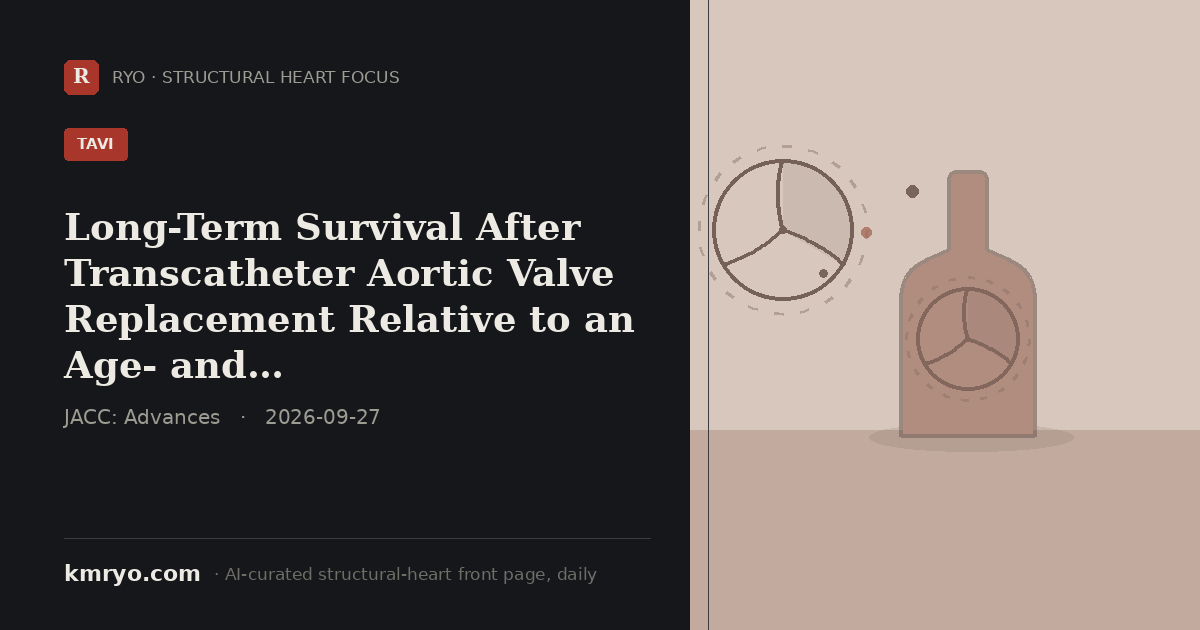
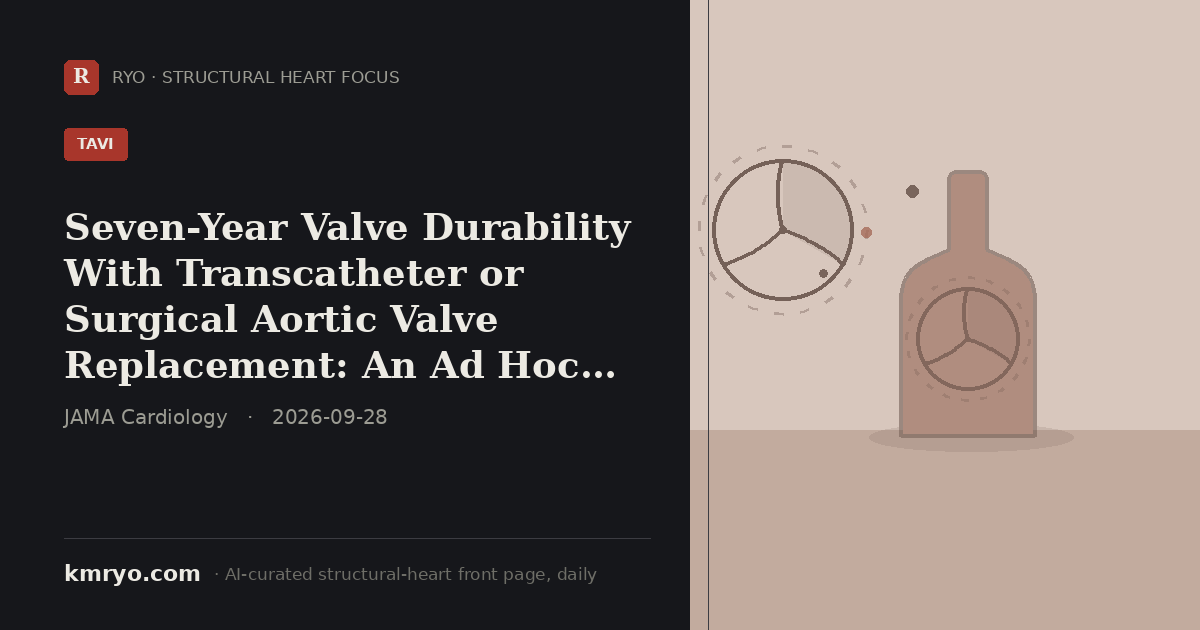
pulse: 2026-09-28 daily update
Claude-Session: https://claude.ai/code/session_01We1Ucfd5LHstyoGmMXJ8rG

diff --git a/index.html b/index.html
@@ -6,8 +6,8 @@
 <title>Structural Heart Focus — Daily | Dr. Mi Chen · 千觅量子 RYO</title>
 <meta name="description" content="Structural Heart Focus — the day's most important structural-heart reading (top journals, major meetings and the field's conversation), curated daily by an AI agent from inside the Zurich hybrid room. By Dr. Mi Chen · 千觅量子 RYO.">
 <!-- Social share card. Regenerated daily by the pulse agent (pulse/make_share_card.py); og:title/description updated to the day's top story so LinkedIn/WeChat/X show today's headline, not a static portrait. -->
-<meta property="og:title" content="Long-Term Survival After Transcatheter Aortic Valve Replacement Relative to an Age- and Comorbidity-Matched Population">
-<meta property="og:description" content="TriNetX analysis of 113 million patients finds TAVR patients ≥65 match or beat age/comorbidity-matched survival, but a mortality gap persists for younger 50-64-year-old recipients.">
+<meta property="og:title" content="Seven-Year Valve Durability With Transcatheter or Surgical Aortic Valve Replacement: An Ad Hoc Analysis of the PARTNER 3 Randomized Clinical Trial">
+<meta property="og:description" content="7-year PARTNER 3 analysis (n=948) finds low, statistically similar rates of structural valve deterioration and bioprosthetic valve failure between TAVR and surgery in low-risk patients.">
 <meta property="og:image" content="https://www.kmryo.com/pulse/img/share/card.png">
 <meta property="og:image:width" content="1200">
 <meta property="og:image:height" content="630">
@@ -16,8 +16,8 @@
 <meta property="og:type" content="website">
 <meta property="og:site_name" content="kmryo.com · Structural Heart Focus">
 <meta name="twitter:card" content="summary_large_image">
-<meta name="twitter:title" content="Long-Term Survival After Transcatheter Aortic Valve Replacement Relative to an Age- and Comorbidity-Matched Population">
-<meta name="twitter:description" content="TriNetX analysis of 113 million patients finds TAVR patients ≥65 match or beat age/comorbidity-matched survival, but a mortality gap persists for younger 50-64-year-old recipients.">
+<meta name="twitter:title" content="Seven-Year Valve Durability With Transcatheter or Surgical Aortic Valve Replacement: An Ad Hoc Analysis of the PARTNER 3 Randomized Clinical Trial">
+<meta name="twitter:description" content="7-year PARTNER 3 analysis (n=948) finds low, statistically similar rates of structural valve deterioration and bioprosthetic valve failure between TAVR and surgery in low-risk patients.">
 <meta name="twitter:image" content="https://www.kmryo.com/pulse/img/share/card.png">
[1 lines of base64/hex data omitted]
 <link rel="preconnect" href="https://fonts.googleapis.com">
